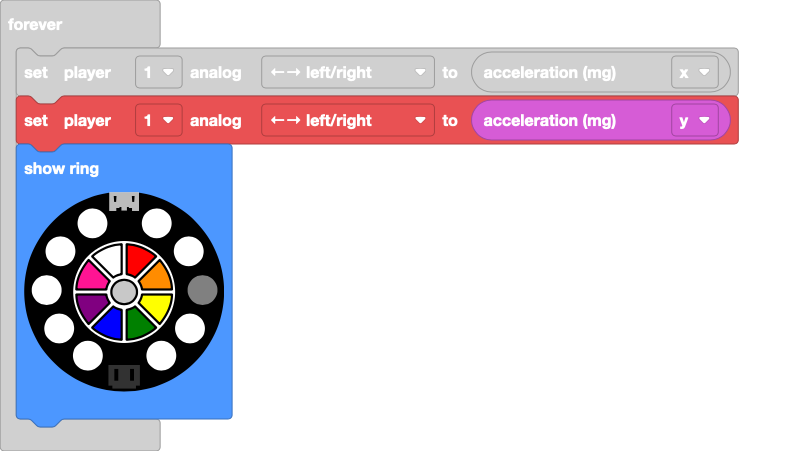
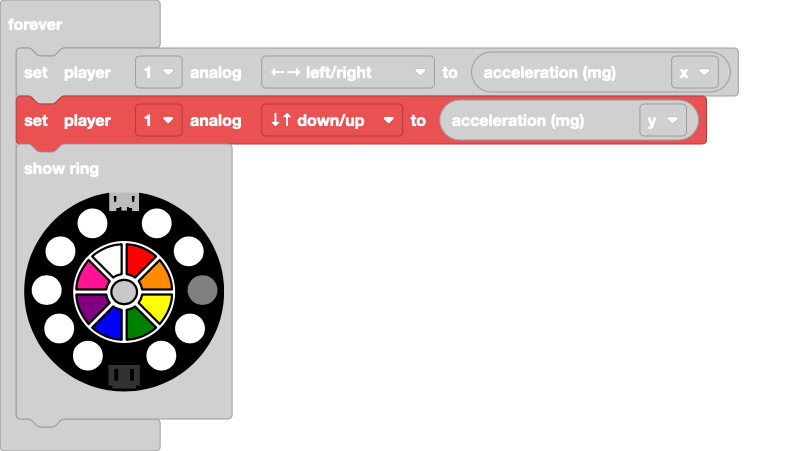
Update main.blocks, main.ts

Changed region(s): [[0.0, 0.3104, 0.3038, 0.9623], [0.3342, 0.1863, 0.9418, 0.3415]]

diff --git a/main.ts b/main.ts
@@ -4,7 +4,7 @@ input.buttonA.onEvent(ButtonEvent.Click, function () {
 })
 forever(function () {
     makerController.player1.setAnalog(ArcadeAnalogButton.LeftRight, input.acceleration(Dimension.X))
-    makerController.player1.setAnalog(ArcadeAnalogButton.LeftRight, input.acceleration(Dimension.Y))
+    makerController.player1.setAnalog(ArcadeAnalogButton.DownUp, input.acceleration(Dimension.Y))
     light.showRing(
     `white white white white white white white black white white`
     )
